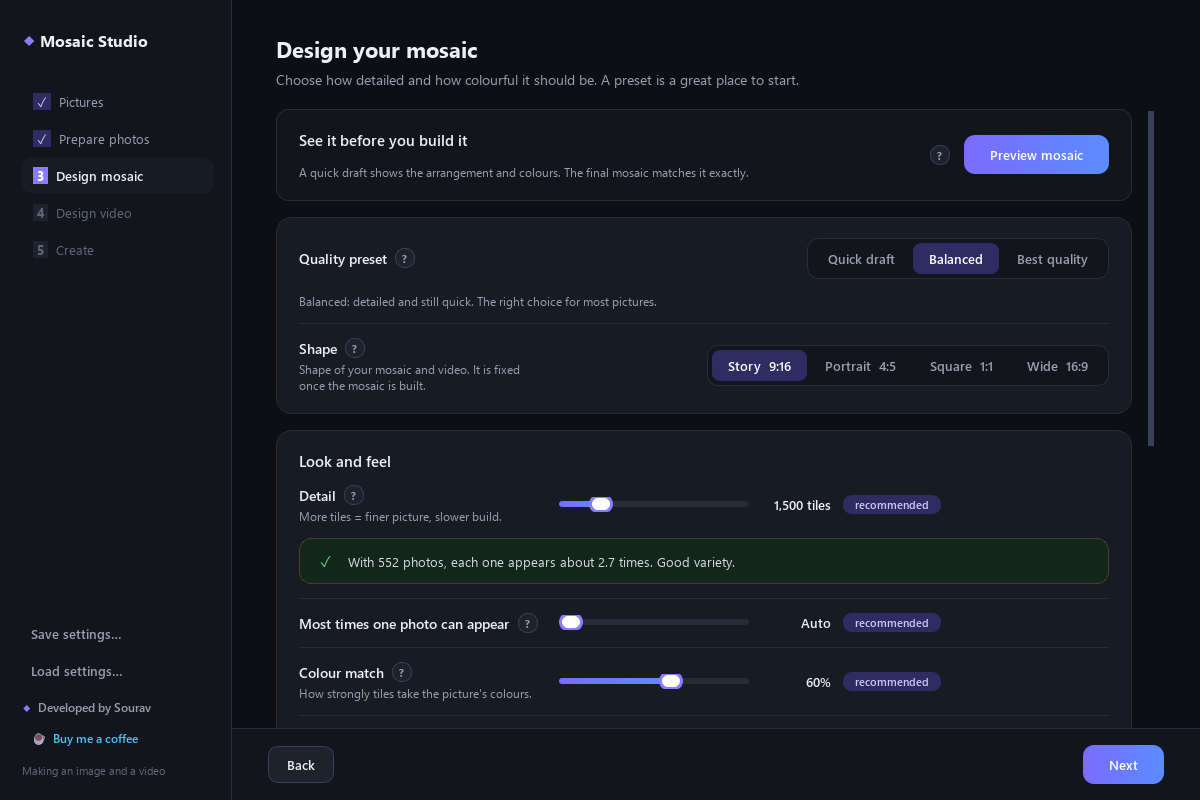
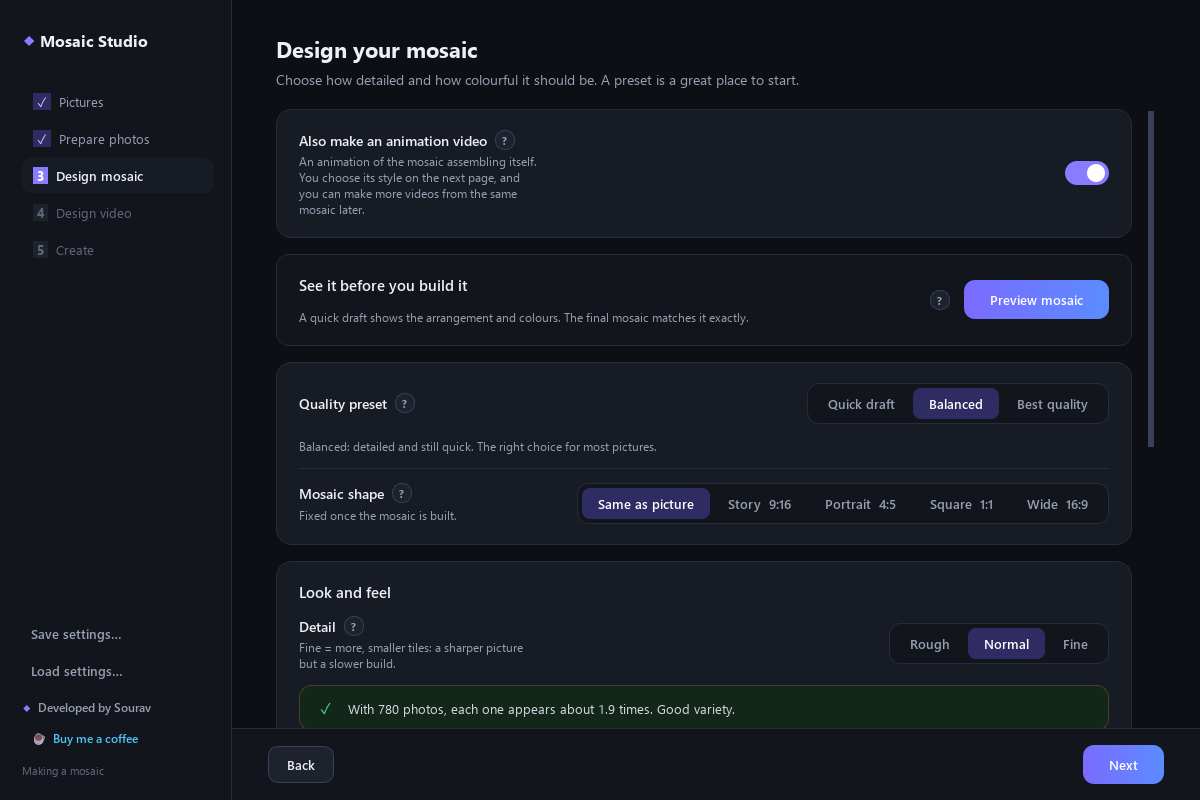
README: document plugins, shapes and the plugin command; regenerate the app screenshots
The four UI screenshots dated from before shapes, plugins and the new home
screen. packaging/make_screenshots.py regenerates them headless from the
current UI (no personal folders on screen). Also shortens the Mosaic shape
hint, which was clipped by its row.

diff --git a/packaging/make_screenshots.py b/packaging/make_screenshots.py
@@ -1,0 +1,64 @@
+r"""Regenerate the README screenshots (docs/images/*.png) from the current UI, headless:
+
+    .\.venv\Scripts\python.exe packaging\make_screenshots.py
+
+Uses made-up choices only (no personal folders are shown). Plugin shots need a plugin linked
+(`python -m mosaicvid plugins link <folder>`); they are skipped when none is installed.
+"""
+from __future__ import annotations
+
+import os
+import sys
+from pathlib import Path
+
+os.environ.setdefault("QT_QPA_PLATFORM", "offscreen")
+os.environ.setdefault("QT_QPA_FONTDIR", "C:/Windows/Fonts")
+ROOT = Path(__file__).resolve().parents[1]
+sys.path.insert(0, str(ROOT))
+OUT = ROOT / "docs" / "images"
+
+
+def main() -> int:
+    from PySide6.QtGui import QFont
+    from PySide6.QtWidgets import QApplication
+
+    from mosaicvid.gui.theme import qss
+    from mosaicvid.gui.window import MainWindow
+
+    app = QApplication([])
+    app.setStyleSheet(qss())
+    f = QFont("Segoe UI")
+    f.setPointSize(10)
+    app.setFont(f)
+    w = MainWindow()
+    w.resize(1200, 800)
+    w.show()
+    app.processEvents()
+    OUT.mkdir(parents=True, exist_ok=True)
+
+    def snap(name: str) -> None:
+        for _ in range(3):                                   # let wrapped labels re-flow before the picture is taken
+            app.processEvents()
+        w.grab().save(str(OUT / name))
+        print("saved", name)
+
+    snap("home.png")
+    st = w.state
+    st.tiles_dir = st.main_image = st.out_dir = ""          # nothing personal on screen
+    st.n_photos, st.image_ratio = 780, 0.75
+    w.start_flow("both")
+    st.tiles_dir, st.main_image, st.n_photos = "photos", "portrait.jpg", 780
+    for key, name in (("prepare", "prepare.png"), ("look", "design-mosaic.png"), ("video", "design-video.png")):
+        w._go(w.keys.index(key))
+        snap(name)
+    pl = next(iter(st.plugins.values()), None)
+    if pl is not None:
+        st.plugin_preview = {}
+        w.start_flow(f"plugin:{pl.id}")
+        w._go(1 if pl.needs_mosaic else 0)
+        snap("plugin-form.png")
+    return 0
+
+
+if __name__ == "__main__":
+    sys.exit(main())

diff --git a/mosaicvid/gui/pages/look.py b/mosaicvid/gui/pages/look.py
@@ -250,8 +250,8 @@ class LookPage(Page):
         self.blend_row.setVisible(st.makes_image)
         self.shape.set_value(s.mosaic_aspect)
         self.tile_shape.set_value(s.tile_aspect)
-        self.shape_row.set_desc("Shape of your " + ("mosaic image." if st.goal == "image" else
-                                                    "mosaic. It is fixed once the mosaic is built."))
+        self.shape_row.set_desc("The picture's proportions." if st.goal == "image" else
+                                "Fixed once the mosaic is built.")      # keep it to two lines: the row does not grow
         self._advice()
         self._print_changed()
 

diff --git a/README.md b/README.md
@@ -5,7 +5,7 @@ mosaic assembling itself. Everything runs offline on your own Windows PC, with a
 if you prefer).
 
 <p align="center">
-  <img src="docs/images/home.png" alt="Mosaic Studio home screen" width="80%">
+  <img src="docs/images/home.png" alt="Mosaic Studio home screen, with a plugin installed under 'Made for a purpose'" width="80%">
 </p>
 
 ## See it in action
@@ -52,6 +52,7 @@ OpenGL 3.3 (an integrated GPU is fine).
 |---|---|
 | **Create a mosaic** | The finished high-resolution picture built from your photos (PNG, JPEG, WebP or TIFF, for screens or for print). A switch on the *Design mosaic* page adds an **animation** of it assembling itself, in four styles, as MP4 (H.264 / H.265), WebM or GIF, 720p to 4K. |
 | **New video from a saved mosaic** | Reuse a mosaic you built earlier to try a different animation style or format in seconds, without rebuilding it. |
+| **A plugin** | A ready-made flow for one purpose, such as a birthday film with names, a message and music. Plugins live in their own folders and appear on the home screen under *Made for a purpose*; see [Plugins](#plugins). |
 
 ## The app
 
@@ -69,6 +70,8 @@ Steps that do not apply to your goal are left out.
   **Preview what will change** shows which photos would be kept, trimmed, left out or treated as duplicates.
 - **Preview before you build:** a fast draft that has exactly the arrangement of the final mosaic.
 - **Your photos, your way:** several photo folders, folders to leave out, a sub-folder switch, black and white, gap colour.
+- **Shapes:** the mosaic can follow your picture or be Story 9:16, Portrait 4:5, Square or Wide; tiles can be square, wide or
+  tall; the video can have yet another shape.
 - **Print-ready:** choose a physical size (inches or cm) and 150 / 300 / 600 DPI; the DPI is saved inside the file.
 - **Settings files:** save your settings and load them again later (your folders are never stored in them).
 - **Stays responsive:** the work runs in a separate process, so the window never freezes and **Cancel** really cancels.
@@ -97,6 +100,37 @@ EXIF rotation, border and frame trimming, blur / size filtering, near-duplicate 
 cropping, and an on-disk cache so later runs are fast. An experimental "fix sideways photos" option is available (off by
 default).
 
+## Plugins
+
+A plugin turns Mosaic Studio into a tool for **one specific purpose**, with its own guided steps, without changing the
+app. It is a small folder of its own (usually its own project and repository) that the app links to:
+
+```
+my-plugin/
+    plugin.json    what the window shows: home card, steps, form fields, review summary (the window reads only this)
+    plugin.py      def run(ctx): ...  does the work in the engine process and returns {"video": "path"}
+```
+
+<p align="center">
+  <img src="docs/images/plugin-form.png" alt="A plugin's form, built from its plugin.json" width="80%">
+</p>
+
+- **Add one:** click **Add a plugin…** on the home screen and pick its folder (or, from source,
+  `python -m mosaicvid plugins link "path\to\my-plugin"`; `plugins list` and `plugins unlink` also exist). Plugins are also
+  found in `%APPDATA%\MosaicStudio\plugins`. A broken plugin is skipped, never fatal.
+- **Forms without Qt code:** `plugin.json` lists typed fields (text, multi-line text, number, toggle, choice, colour, file,
+  folder, list). The app builds the pages, validates required fields, shows a review screen and saves the values in the
+  settings files.
+- **The mosaic is handled for you:** a plugin that sets `"needs": "mosaic"` gets the photo and main-picture steps, and the
+  engine prepares the photos and solves the mosaic first (and reuses it when only the plugin's own options changed). `run(ctx)`
+  receives the finished scene, the tile cache, the form values, a progress reporter and the FFmpeg path.
+- **Any animation style:** the four styles expose their camera (`Plan.state`), so a plugin can continue a style's camera move.
+- **Short previews:** a plugin can offer "render only a short slice" on its review screen.
+
+The first plugin is **Birthday video** (a personal film: a name drawn in the night sky, the photos gathering into a mosaic
+portrait in any of the four styles, your message, music, a finale). It lives in its own repository.
+The format is documented at the top of [`mosaicvid/plugins.py`](mosaicvid/plugins.py).
+
 ## Command line
 
 The same engine can be used without the app (from a source checkout, see below).
@@ -115,10 +149,14 @@ python -m mosaicvid inspect --tiles "path\to\photos" --out output\run1
 
 # Run a job file (this is what the app uses; progress is printed as one JSON event per line)
 python -m mosaicvid run --job job.json
+
+# Plugins: link a plugin folder, list the installed ones, unlink
+python -m mosaicvid plugins link "path\to\my-plugin"
+python -m mosaicvid plugins list
 ```
 
 `python -m mosaicvid <command> --help` lists every option. A job file is plain JSON (`mode`: `image`, `video`, `both` or
-`inspect`, plus paths and a `settings` object); see the top of [`mosaicvid/runner.py`](mosaicvid/runner.py).
+`inspect` or `plugin`, plus paths and a `settings` object); see the top of [`mosaicvid/runner.py`](mosaicvid/runner.py).
 
 ## Run from source
 
@@ -126,7 +164,7 @@ python -m mosaicvid run --job job.json
 python -m venv .venv
 .venv\Scripts\python.exe -m pip install -r requirements.txt
 .venv\Scripts\python.exe -m mosaicvid.gui          # open the app
-.venv\Scripts\python.exe -m pytest -q              # run the tests (18)
+.venv\Scripts\python.exe -m pytest -q              # run the tests (31)
 ```
 
 Python 3.12 on Windows is what it is tested with. FFmpeg comes from the `imageio-ffmpeg` package.
@@ -150,12 +188,13 @@ This produces `dist\MosaicStudio\MosaicStudio.exe` (a self-contained folder; zip
 | `mosaicvid/animation.py` | per-tile flights, cameras and the four animation styles |
 | `mosaicvid/render_gl.py` | headless OpenGL renderer and FFmpeg export |
 | `mosaicvid/settings.py` | every user option in one serialisable object |
-| `mosaicvid/runner.py` | one job entry point (image / video / both / inspect) with JSON progress events |
+| `mosaicvid/runner.py` | one job entry point (image / video / both / inspect / plugin) with JSON progress events |
+| `mosaicvid/plugins.py` | plugin manifest, discovery, linking and the context a plugin's `run()` receives |
 | `mosaicvid/report.py` | contact sheets and CSV report of what preparation did |
-| `mosaicvid/cli.py` | `build`, `inspect`, `video` and `run` commands |
+| `mosaicvid/cli.py` | `build`, `inspect`, `video`, `run` and `plugins` commands |
 | `mosaicvid/app.py` | entry point for the window and the packaged exe |
-| `mosaicvid/gui/` | the PySide6 app: pages, widgets, theme, help text |
-| `packaging/` | icon generator and the PyInstaller build script |
+| `mosaicvid/gui/` | the PySide6 app: pages, widgets, theme, help text, plugin forms (`plugin_form.py`) |
+| `packaging/` | icon generator, the PyInstaller build script and `make_screenshots.py` (regenerates `docs/images`) |
 | `tests/` | automated tests |
 
 Generated media (videos, stills, caches) and build output stay out of git on purpose; see `.gitignore`.
@@ -164,7 +203,8 @@ Generated media (videos, stills, caches) and build output stay out of git on pur
 
 - Mixed tile shapes, irregular mosaic shapes from a mask, and using frames from your own videos as tiles
 - Reliable automatic rotation of sideways photos (needs an orientation model)
-- Music and title overlays for videos
+- Music and title overlays for videos (plugins can already do this; a built-in option is still open)
+- Plugins that add their own animation styles or renderer passes; a plugin gallery
 - In-app video playback, a Windows installer and code signing
 - Scale tests (thousands of photos) and renderer tests
 
